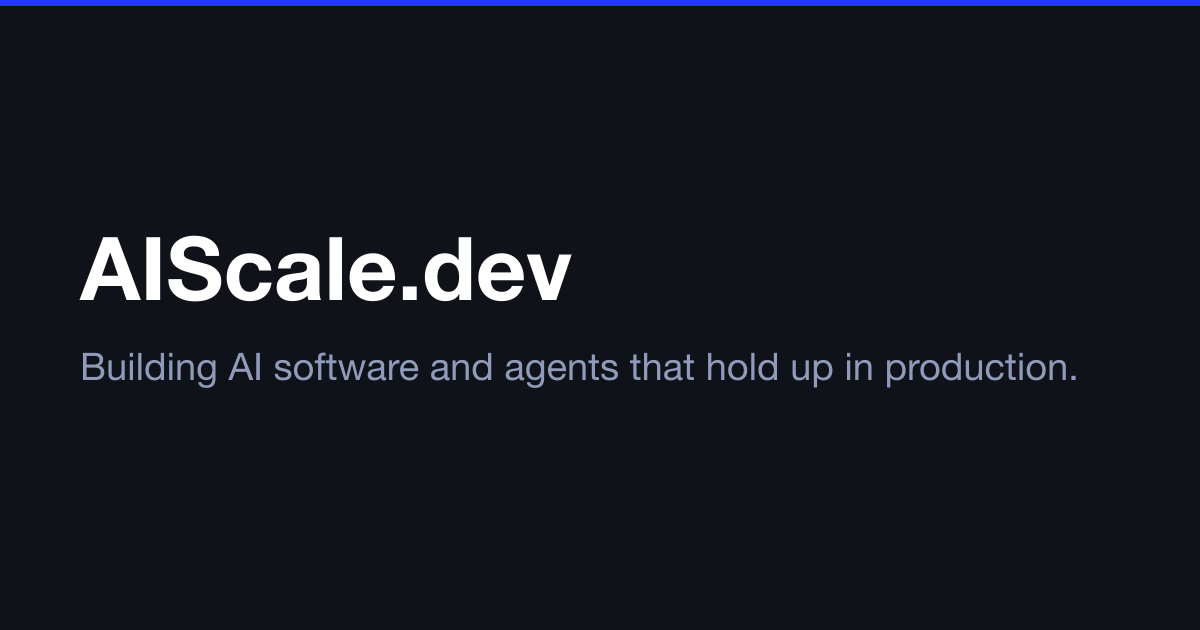
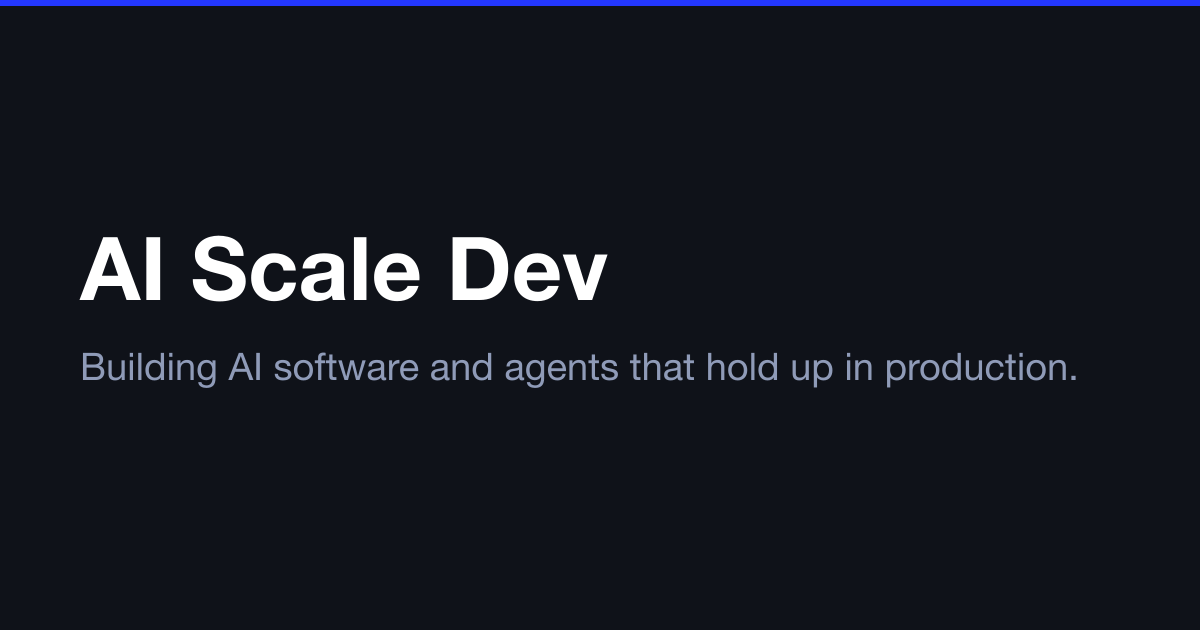
Brand display name: AI Scale Dev
Show the brand as "AI Scale Dev" (spaced) in the header, footer, page
titles, RSS, and share image. The web address stays aiscale.dev.

Changed region(s): [[0.1233, 0.3619, 0.5242, 0.4825]]

diff --git a/src/consts.ts b/src/consts.ts
@@ -1,6 +1,6 @@
 // Place any global data in this file.
 // You can import this data from anywhere in your site by using the `import` keyword.
 
-export const SITE_TITLE = 'AIScale.dev';
+export const SITE_TITLE = 'AI Scale Dev';
 export const SITE_DESCRIPTION =
 	'Field notes on building AI software and agents that hold up in production.';

diff --git a/AGENTS.md b/AGENTS.md
@@ -28,7 +28,7 @@ Deploy: Vercel. DNS: Cloudflare, DNS-only (grey cloud, no proxy) so Vercel termi
 Apex aiscale.dev belongs to the blog. The Short.io link shortener moves to a subdomain (decided Jul 28 2026).
 Vercel DNS targets (Jul 28 2026): CNAME @ -> e364c7306bdf607c.vercel-dns-017.com and CNAME www -> e364c7306bdf607c.vercel-dns-017.com, both proxy off. www redirects to apex (308) in Vercel.
 Never touch the 3 route*.mx.cloudflare.net MX records or the v=spf1 TXT record: that is live email forwarding.
-Brand: AIScale.dev. Repo: AIScaleDev. Local: ~/code/aiscaledev.
+Brand display name: "AI Scale Dev" (with spaces). Domain/URL stays aiscale.dev. Repo: AIScaleDev. Local: ~/code/aiscaledev.
 Posts: src/content/blog/*.mdx, schema in src/content.config.ts.
 Astro-only — no React islands except a contact form on /work.
 Homepage = positioning, not a post feed.
